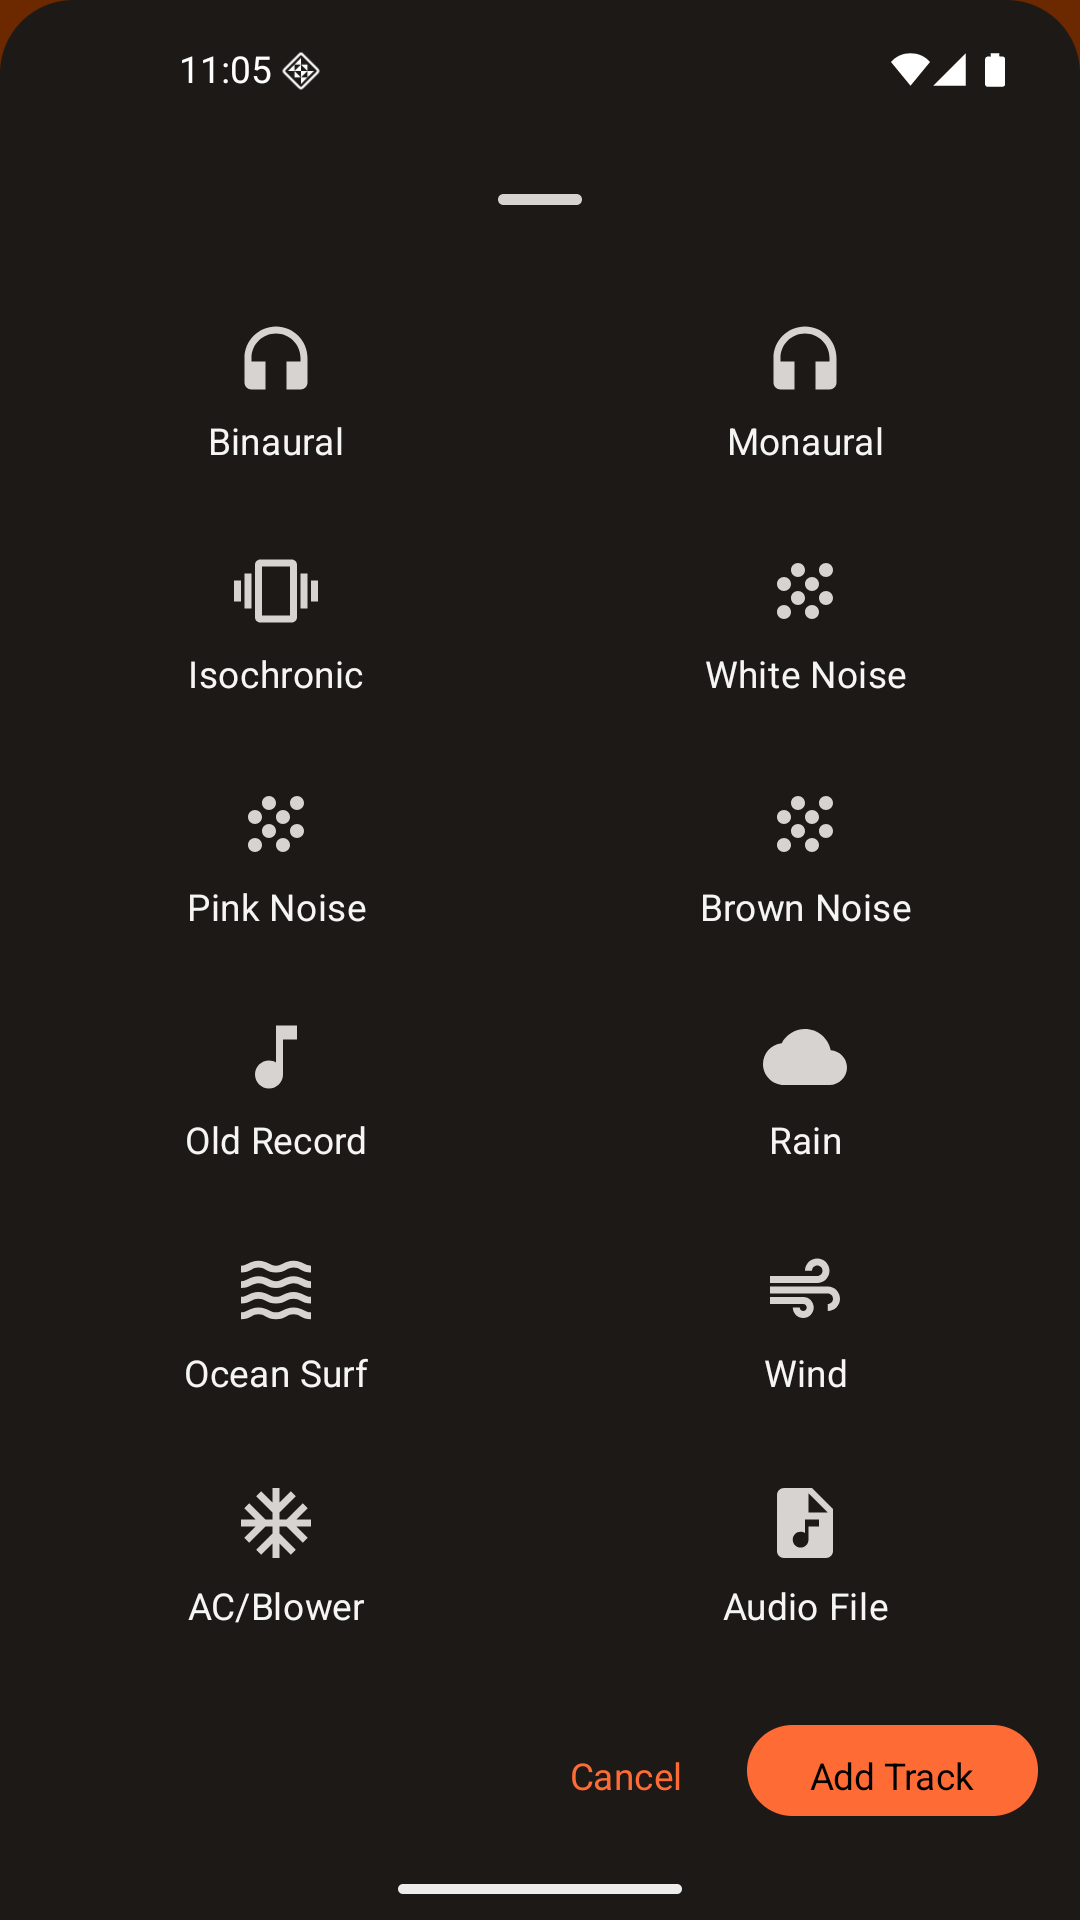
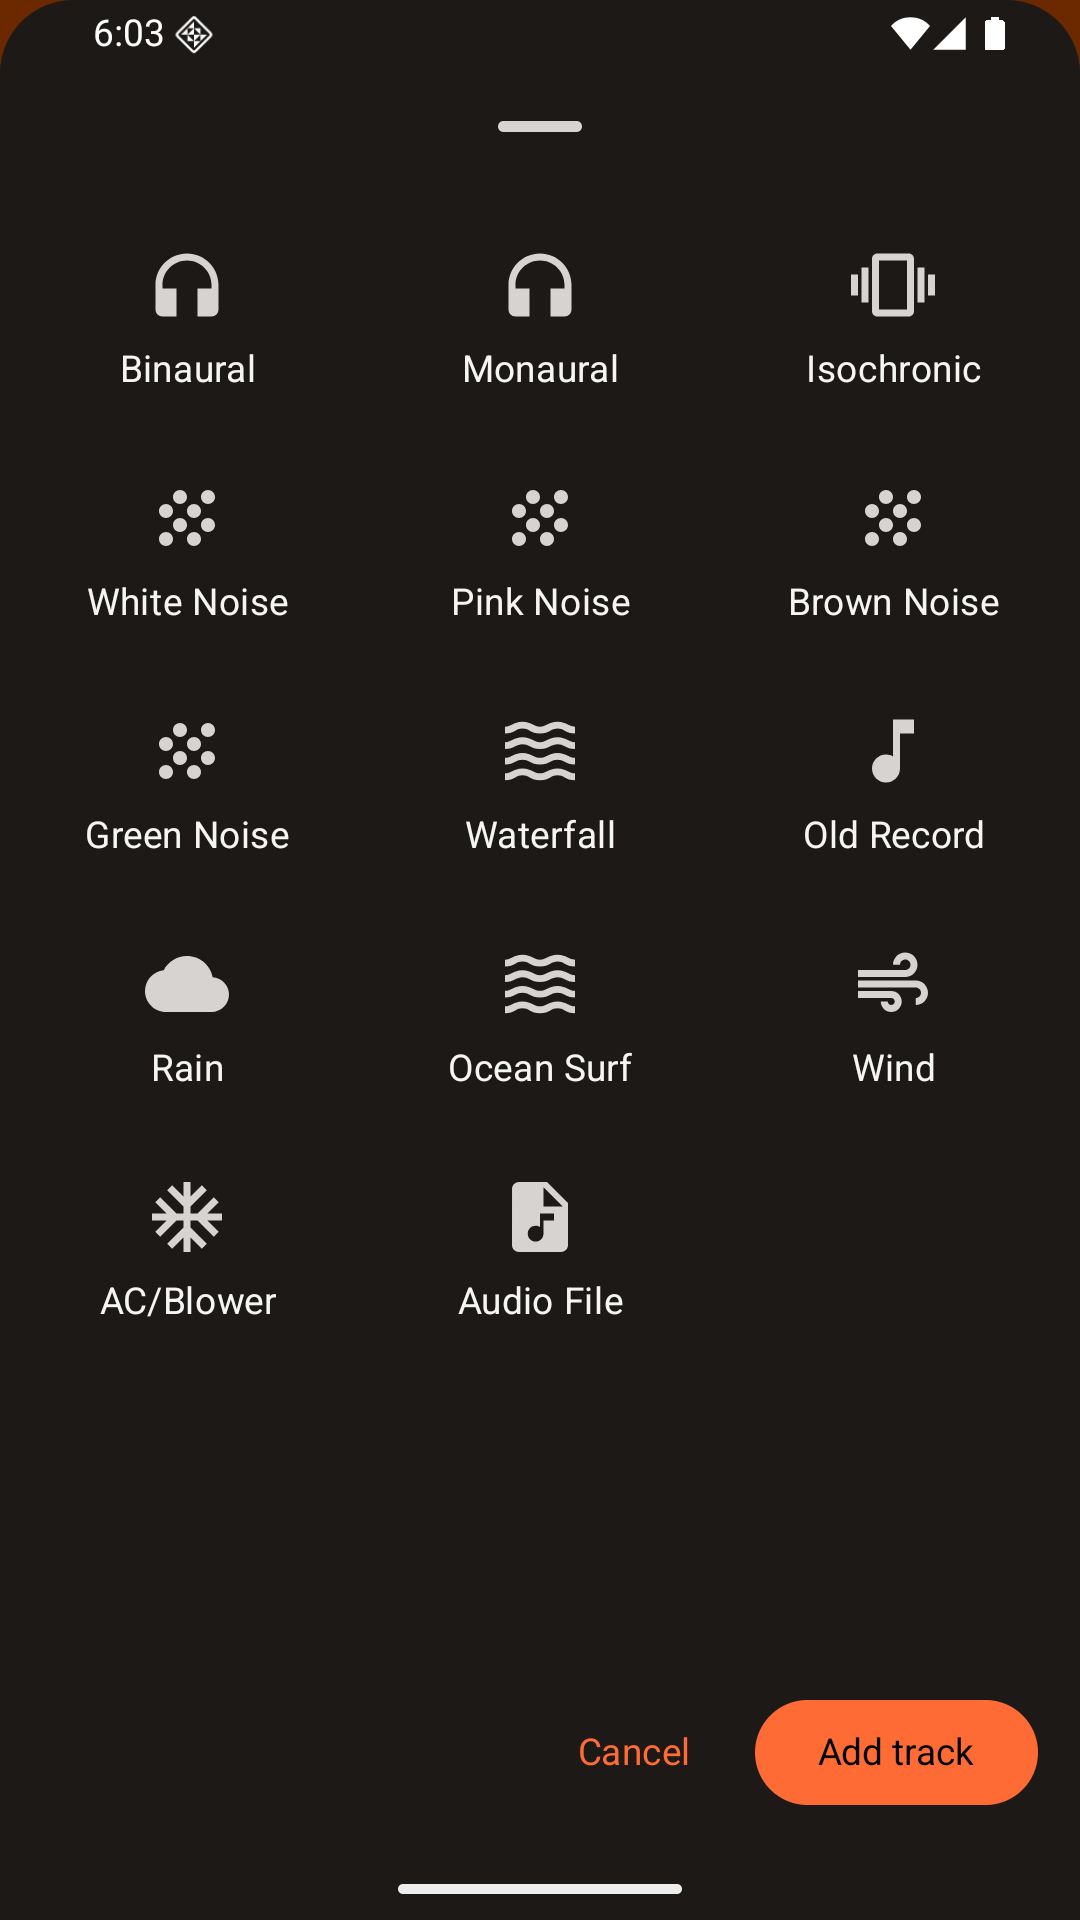
Update screenshots from new directory structure and replace track editor with track type picker
- Updated all screenshot assets from screenshots/phone/{light,dark} directories
- Replaced track editor screenshot with track type picker (add track dialog)
- Updated Screenshots component to use trackTypePicker instead of trackEditor
- Updated all i18n translations (8 languages) to replace trackEditor with trackTypePicker
- Updated TypeScript types to reflect the change

diff --git a/src/i18n/types.ts b/src/i18n/types.ts
@@ -44,7 +44,7 @@ export interface Translations {
     subtitle: string;
     sessionBrowser: string;
     sessionEditor: string;
-    trackEditor: string;
+    trackTypePicker: string;
     mainPlayer: string;
     pointEditor: string;
     qrSharing: string;
